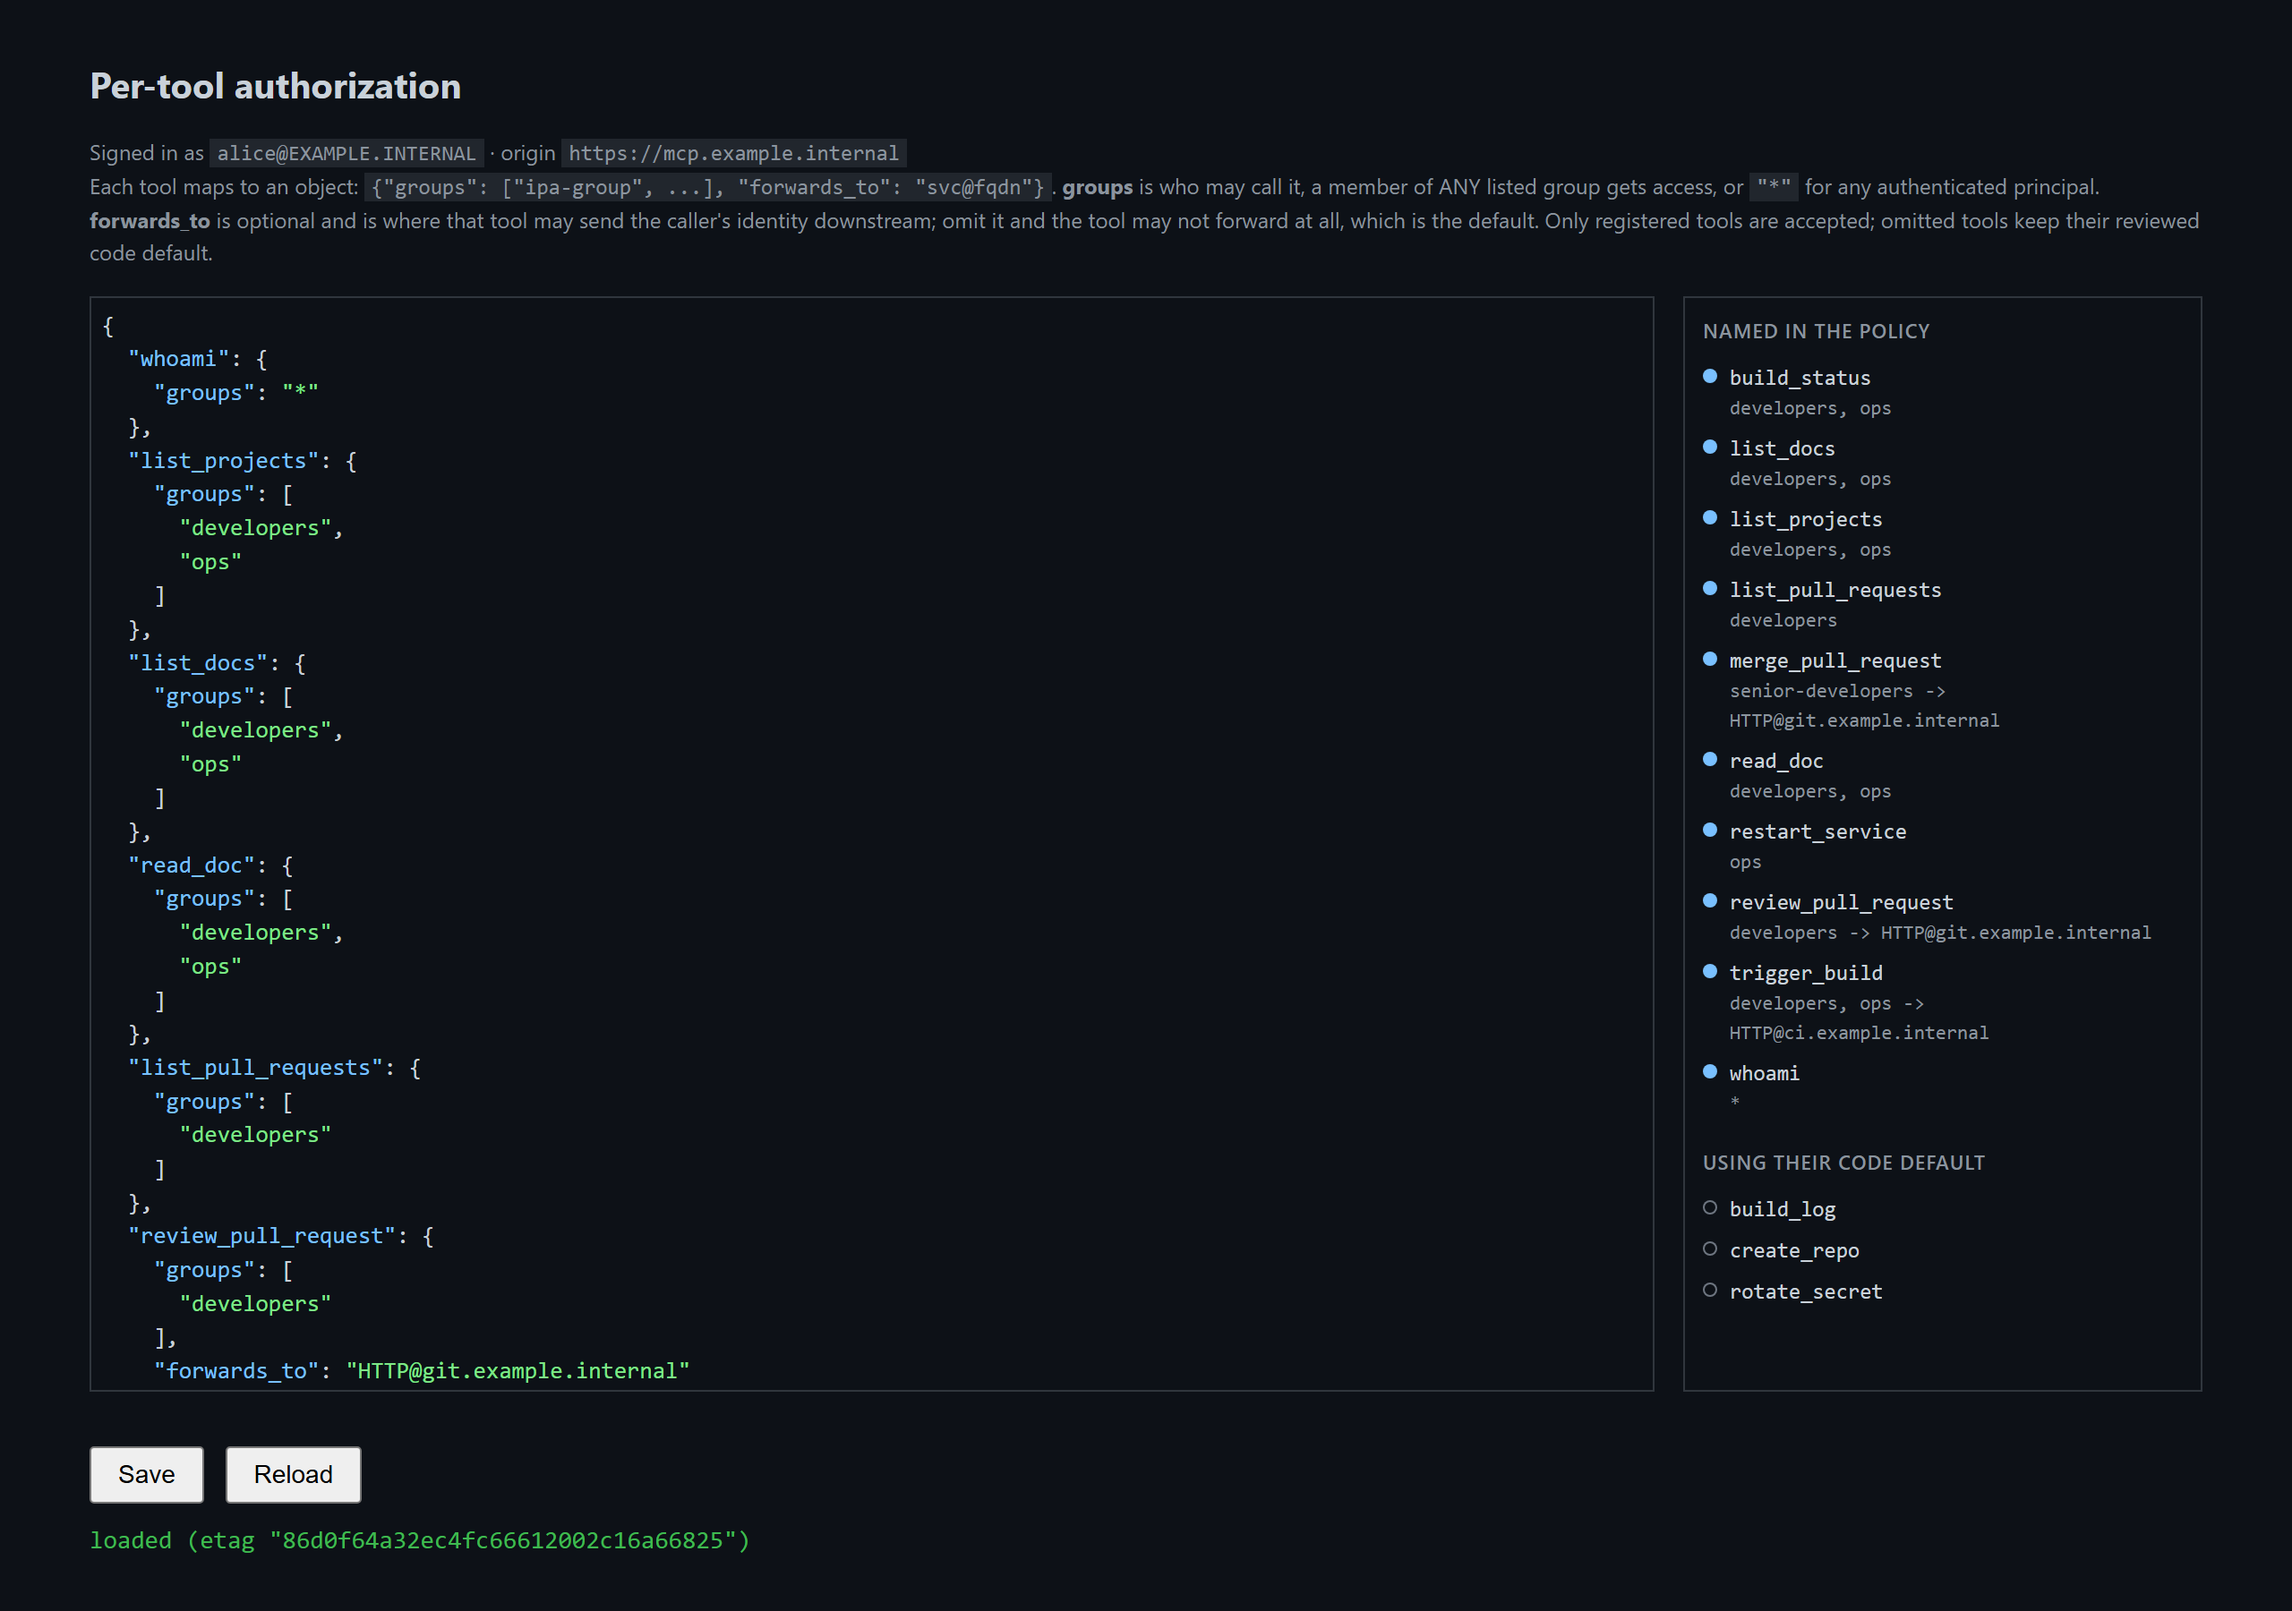
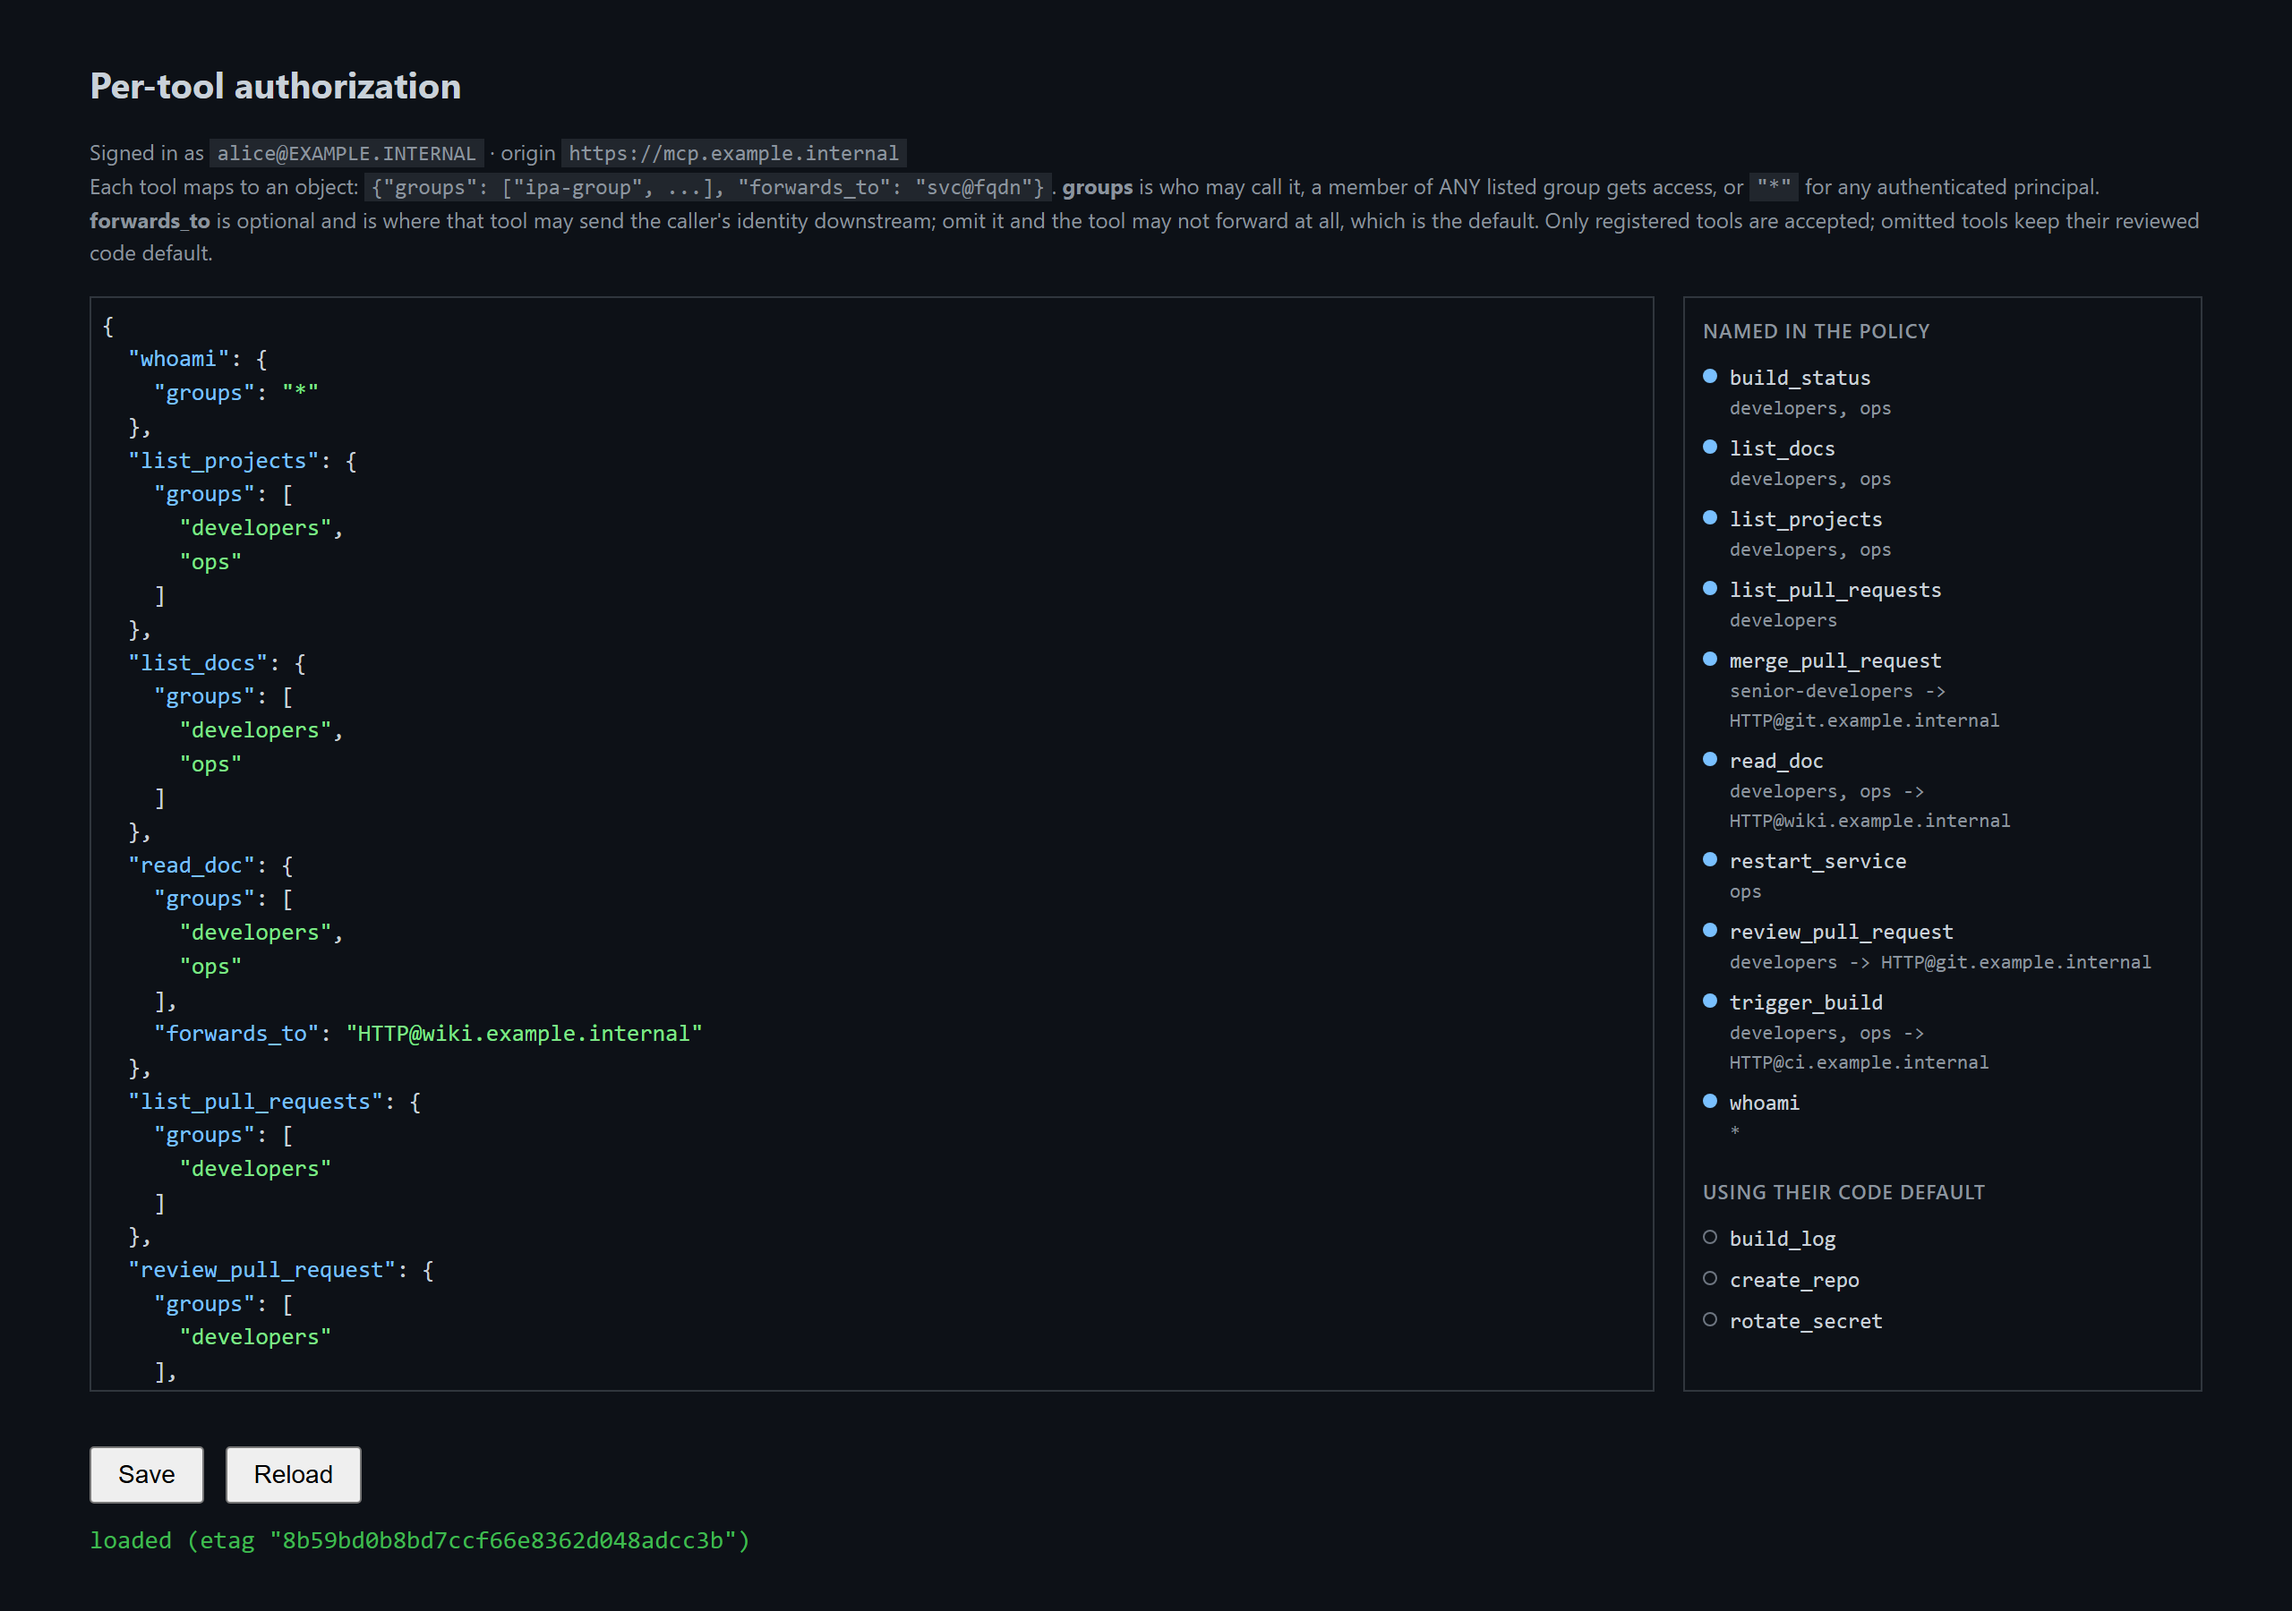
docs: show a second downstream in the editor picture, a wiki, above the fold

diff --git a/docs/authz-editor-mock.py b/docs/authz-editor-mock.py
@@ -39,7 +39,7 @@ def main():
         "whoami":              {"groups": any_token},
         "list_projects":       {"groups": ["developers", "ops"]},
         "list_docs":           {"groups": ["developers", "ops"]},
-        "read_doc":            {"groups": ["developers", "ops"]},
+        "read_doc":            {"groups": ["developers", "ops"], "forwards_to": "HTTP@wiki.example.internal"},
         "list_pull_requests":  {"groups": ["developers"]},
         "review_pull_request": {"groups": ["developers"], "forwards_to": "HTTP@git.example.internal"},
         "merge_pull_request":  {"groups": ["senior-developers"], "forwards_to": "HTTP@git.example.internal"},
